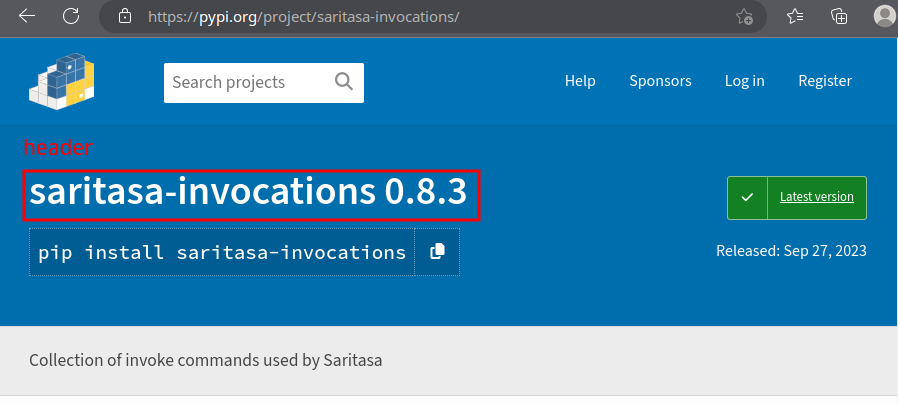
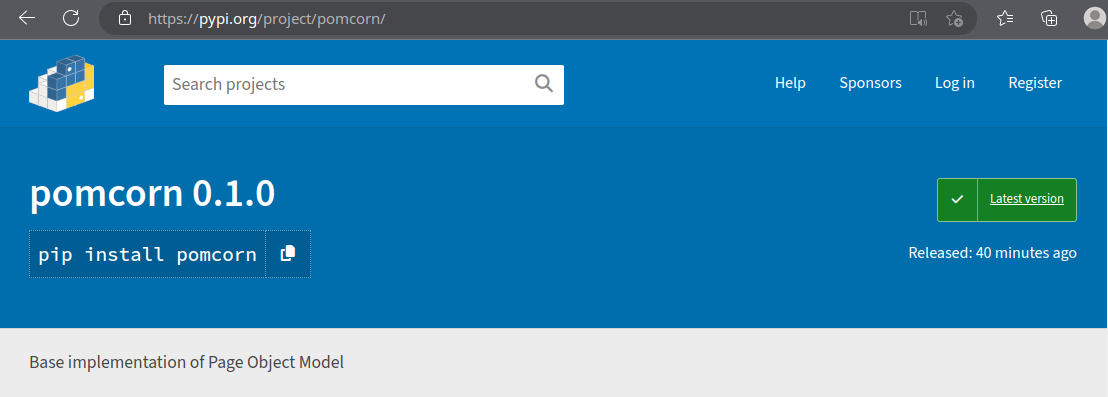
Update after release on PyPI
Fix TODOs

diff --git a/demo/tests/test_search.py b/demo/tests/test_search.py
@@ -12,13 +12,11 @@ def test_search(index_page: IndexPage):
     # Search packages by `saritasa`
     search_page = index_page.search.find("saritasa")
 
-    # TODO: Replace to 4 after upload `pomcorn`
-    # Check that presented 3 packages
-    assert search_page.results.count == 3
+    # Check that at least 4 packages are presented
+    assert search_page.results.count >= 4
 
     # Get package by name
-    # TODO: Replace to `pomcorn` after upload package
-    package_name = "saritasa-invocations"
+    package_name = "pomcorn"
     package = search_page.results.get_item_by_text(package_name)
     assert package.name == package_name
 

diff --git a/demo/README.rst b/demo/README.rst
@@ -205,11 +205,8 @@ of the class `Search component <#search-component>`_.
 Package Details Page
 ^^^^^^^^^^^^^^^^^^^^^^^^^^^^^^^^^^^^^^^^^^^^^^^^^^^^^^^^^^^^^^^^^^^^^^^^^^^^^^^
 
-.. TODO:
-    Replace with pomcorn details page after release
-
 This class represents the PyPI
-`package details page <https://pypi.org/project/saritasa-invocations/>`_.
+`package details page <https://pypi.org/project/pomcorn/>`_.
 
 .. image:: ../docs/_static/images/pypi_package_details.png
     :alt: Package details page

diff --git a/README.rst b/README.rst
@@ -2,7 +2,7 @@
 Pomcorn
 ===============================================================================
 
-.. image:: https://img.shields.io/github/actions/workflow/status/saritasa-nest/pomcorn/checks.yml
+.. image:: https://img.shields.io/github/actions/workflow/status/saritasa-nest/pomcorn/pre-commit.yml
 	:target: https://img.shields.io/
 	:alt: GitHub Workflow Status (with event)
 
